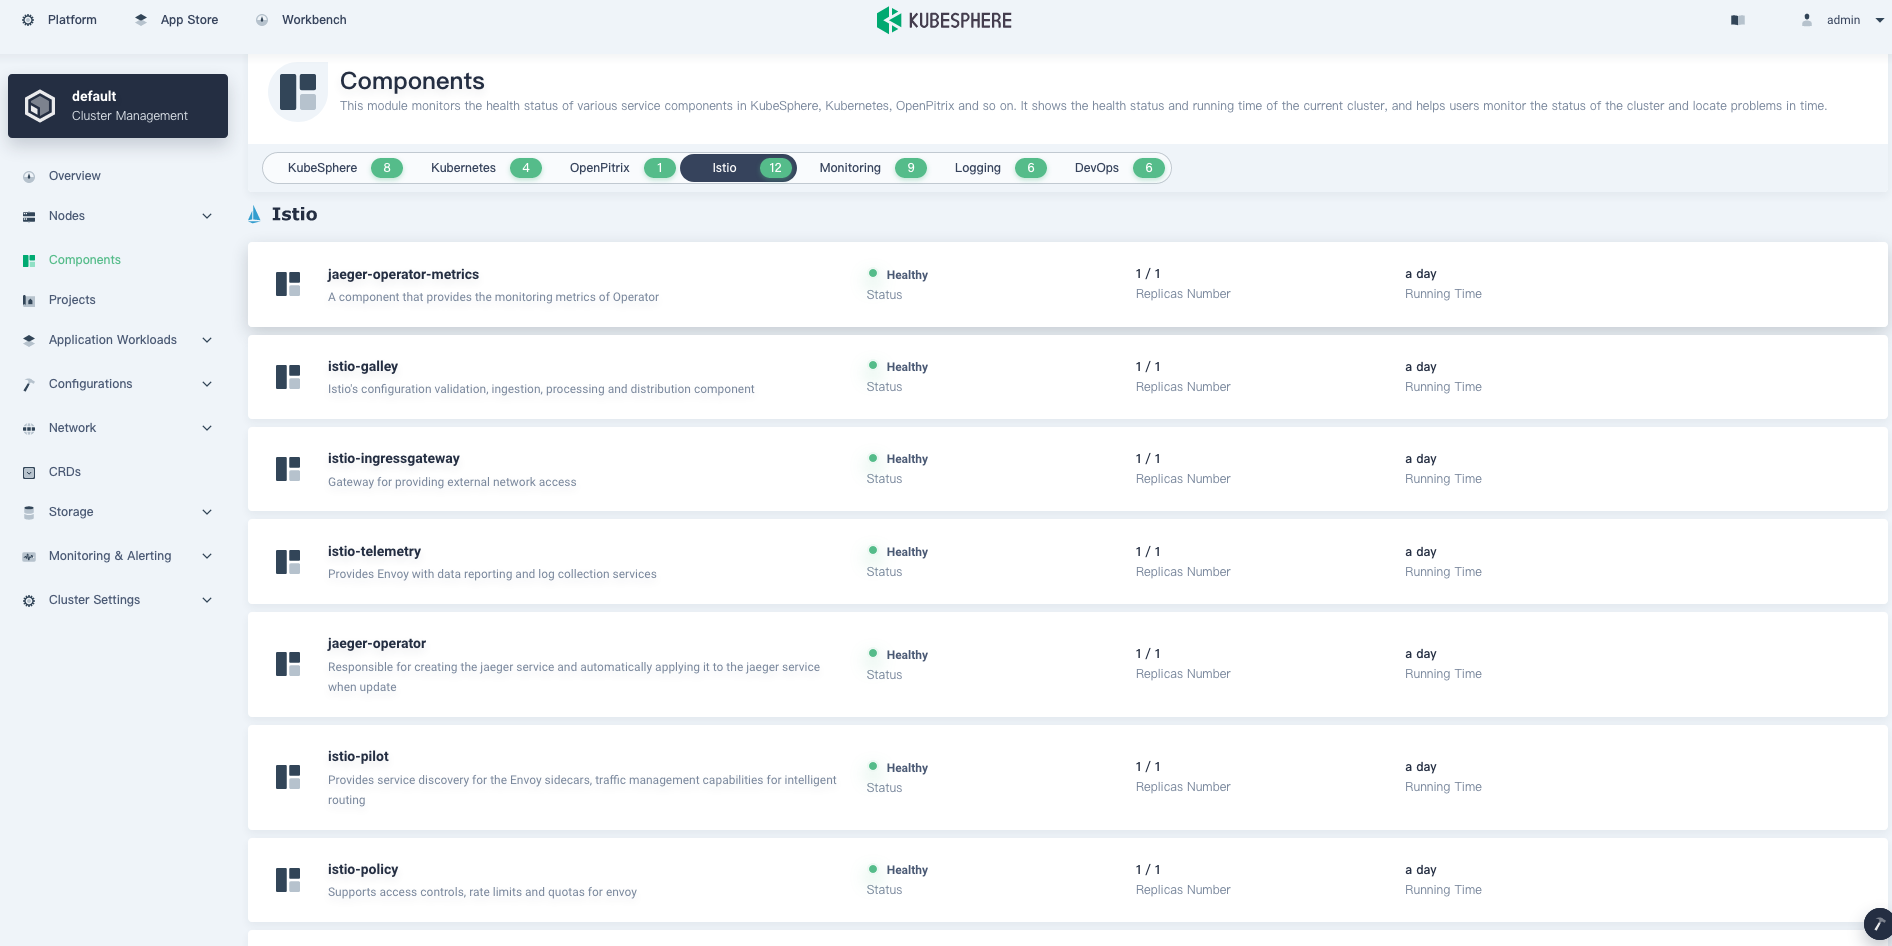
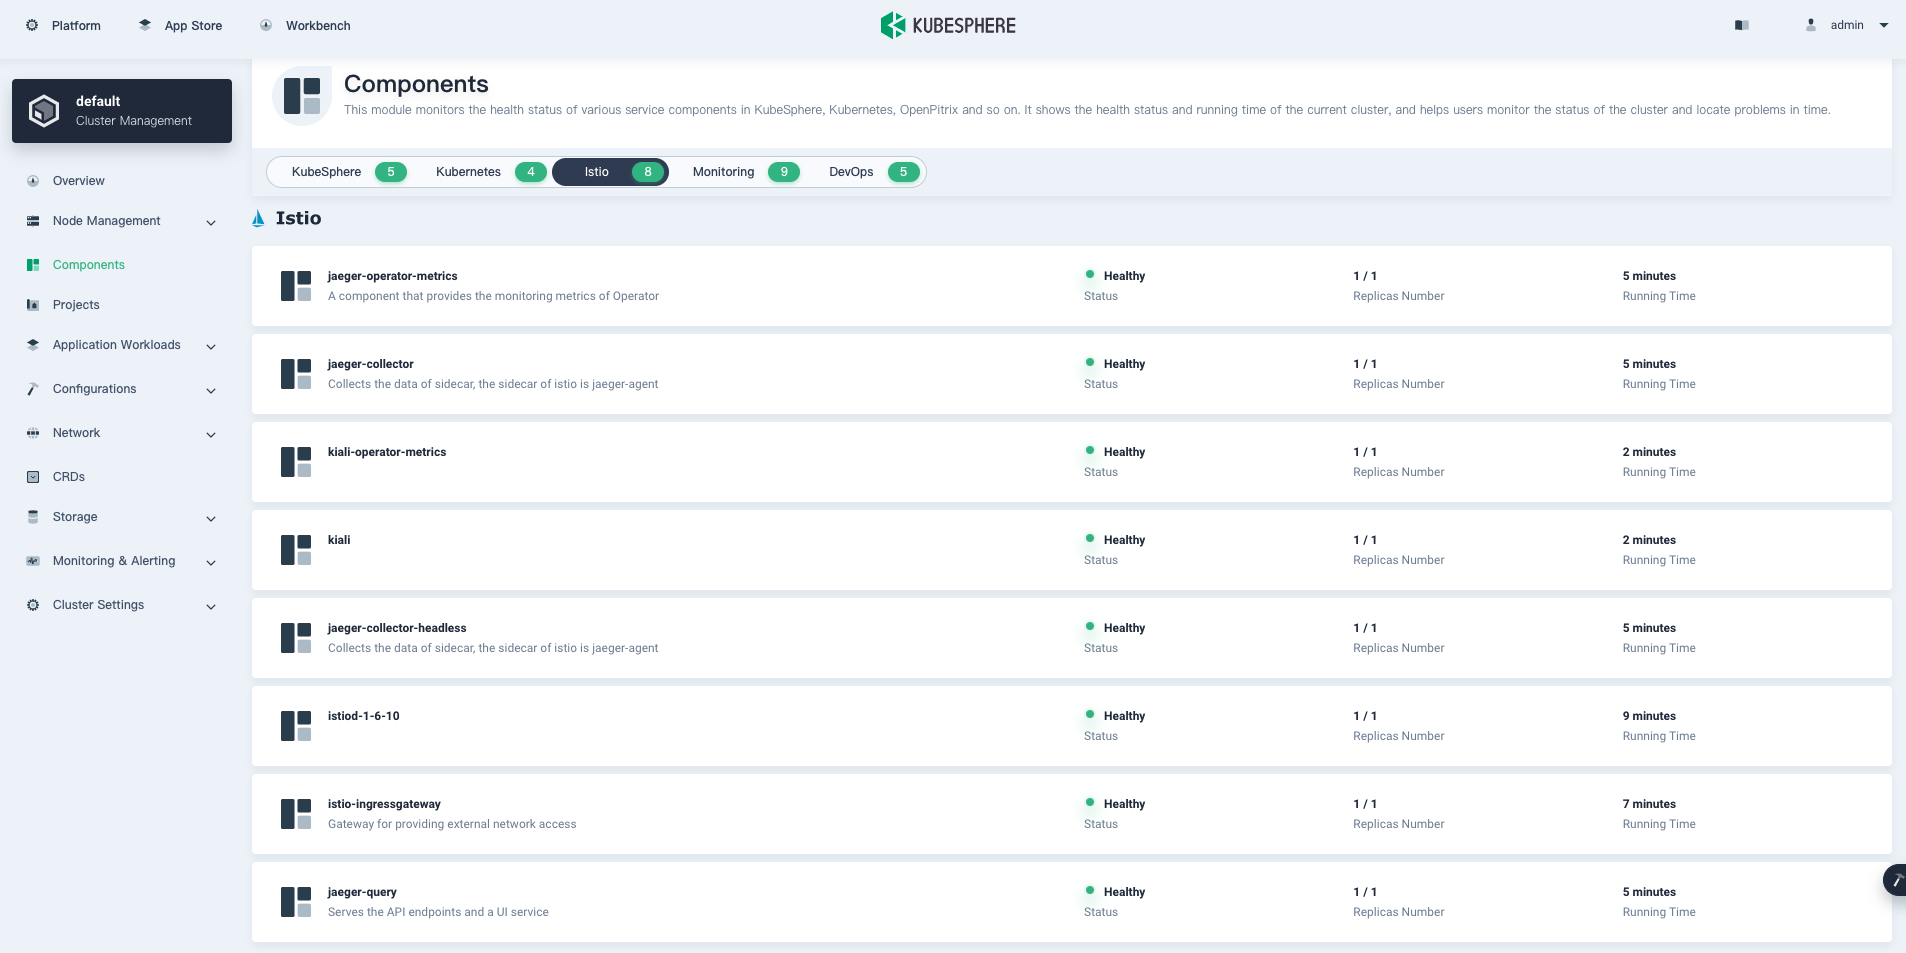
Update enable istio guide

diff --git a/content/zh/docs/pluggable-components/service-mesh.md b/content/zh/docs/pluggable-components/service-mesh.md
@@ -107,7 +107,7 @@ KubeSphere 服务网格基于 [Istio](https://istio.io/)，将微服务治理和
 
 进入**服务组件**，查看 **Istio** 的状态。您可能会看到如下图所示的界面：
 
-![Istio](/images/docs/zh-cn/enable-pluggable-components/kubesphere-service-mesh/Istio.PNG)
+![istio](/images/docs/zh-cn/enable-pluggable-components/kubesphere-service-mesh/istio.png)
 
 {{</ tab >}}
 
@@ -122,21 +122,14 @@ kubectl get pod -n istio-system
 如果组件运行成功，输出结果可能如下：
 
 ```bash
-NAME                                     READY   STATUS      RESTARTS   AGE
-istio-citadel-7f676f76d7-n2rsr           1/1     Running     0          1h29m
-istio-galley-78688b475c-kvkbx            1/1     Running     0          1h29m
-istio-ingressgateway-8569f8dcb-rmvl5     1/1     Running     0          1h29m
-istio-init-crd-10-1.4.8-fpvwg            0/1     Completed   0          1h43m
-istio-init-crd-11-1.4.8-5rc4g            0/1     Completed   0          1h43m
-istio-init-crd-12-1.4.8-62zmp            0/1     Completed   0          1h43m
-istio-init-crd-14-1.4.8-ngq4d            0/1     Completed   0          1h43m
-istio-pilot-67fd55d974-g5bn2             2/2     Running     4          1h29m
-istio-policy-668894cffc-8tpt4            2/2     Running     7          1h29m
-istio-sidecar-injector-9c4d79658-g7fzf   1/1     Running     0          1h29m
-istio-telemetry-57fc886bf8-kx5rj         2/2     Running     7          1h29m
-jaeger-collector-76bf54b467-2fh2v        1/1     Running     0          1h17m
-jaeger-operator-7559f9d455-k26xz         1/1     Running     0          1h29m
-jaeger-query-b478c5655-s57k8             2/2     Running     0          1h17m
+NAME                                    READY   STATUS    RESTARTS   AGE
+istio-ingressgateway-78dbc5fbfd-f4cwt   1/1     Running   0          9m5s
+istiod-1-6-10-7db56f875b-mbj5p          1/1     Running   0          10m
+jaeger-collector-76bf54b467-k8blr       1/1     Running   0          6m48s
+jaeger-operator-7559f9d455-89hqm        1/1     Running   0          7m
+jaeger-query-b478c5655-4lzrn            2/2     Running   0          6m48s
+kiali-f9f7d6f9f-gfsfl                   1/1     Running   0          4m1s
+kiali-operator-7d5dc9d766-qpkb6         1/1     Running   0          6m53s
 ```
 
 {{</ tab >}}

diff --git a/content/en/docs/pluggable-components/service-mesh.md b/content/en/docs/pluggable-components/service-mesh.md
@@ -121,21 +121,14 @@ kubectl get pod -n istio-system
 The output may look as follows if the component runs successfully:
 
 ```bash
-NAME                                     READY   STATUS      RESTARTS   AGE
-istio-citadel-7f676f76d7-n2rsr           1/1     Running     0          1h29m
-istio-galley-78688b475c-kvkbx            1/1     Running     0          1h29m
-istio-ingressgateway-8569f8dcb-rmvl5     1/1     Running     0          1h29m
-istio-init-crd-10-1.4.8-fpvwg            0/1     Completed   0          1h43m
-istio-init-crd-11-1.4.8-5rc4g            0/1     Completed   0          1h43m
-istio-init-crd-12-1.4.8-62zmp            0/1     Completed   0          1h43m
-istio-init-crd-14-1.4.8-ngq4d            0/1     Completed   0          1h43m
-istio-pilot-67fd55d974-g5bn2             2/2     Running     4          1h29m
-istio-policy-668894cffc-8tpt4            2/2     Running     7          1h29m
-istio-sidecar-injector-9c4d79658-g7fzf   1/1     Running     0          1h29m
-istio-telemetry-57fc886bf8-kx5rj         2/2     Running     7          1h29m
-jaeger-collector-76bf54b467-2fh2v        1/1     Running     0          1h17m
-jaeger-operator-7559f9d455-k26xz         1/1     Running     0          1h29m
-jaeger-query-b478c5655-s57k8             2/2     Running     0          1h17m
+NAME                                    READY   STATUS    RESTARTS   AGE
+istio-ingressgateway-78dbc5fbfd-f4cwt   1/1     Running   0          9m5s
+istiod-1-6-10-7db56f875b-mbj5p          1/1     Running   0          10m
+jaeger-collector-76bf54b467-k8blr       1/1     Running   0          6m48s
+jaeger-operator-7559f9d455-89hqm        1/1     Running   0          7m
+jaeger-query-b478c5655-4lzrn            2/2     Running   0          6m48s
+kiali-f9f7d6f9f-gfsfl                   1/1     Running   0          4m1s
+kiali-operator-7d5dc9d766-qpkb6         1/1     Running   0          6m53s
 ```
 
 {{</ tab >}}
